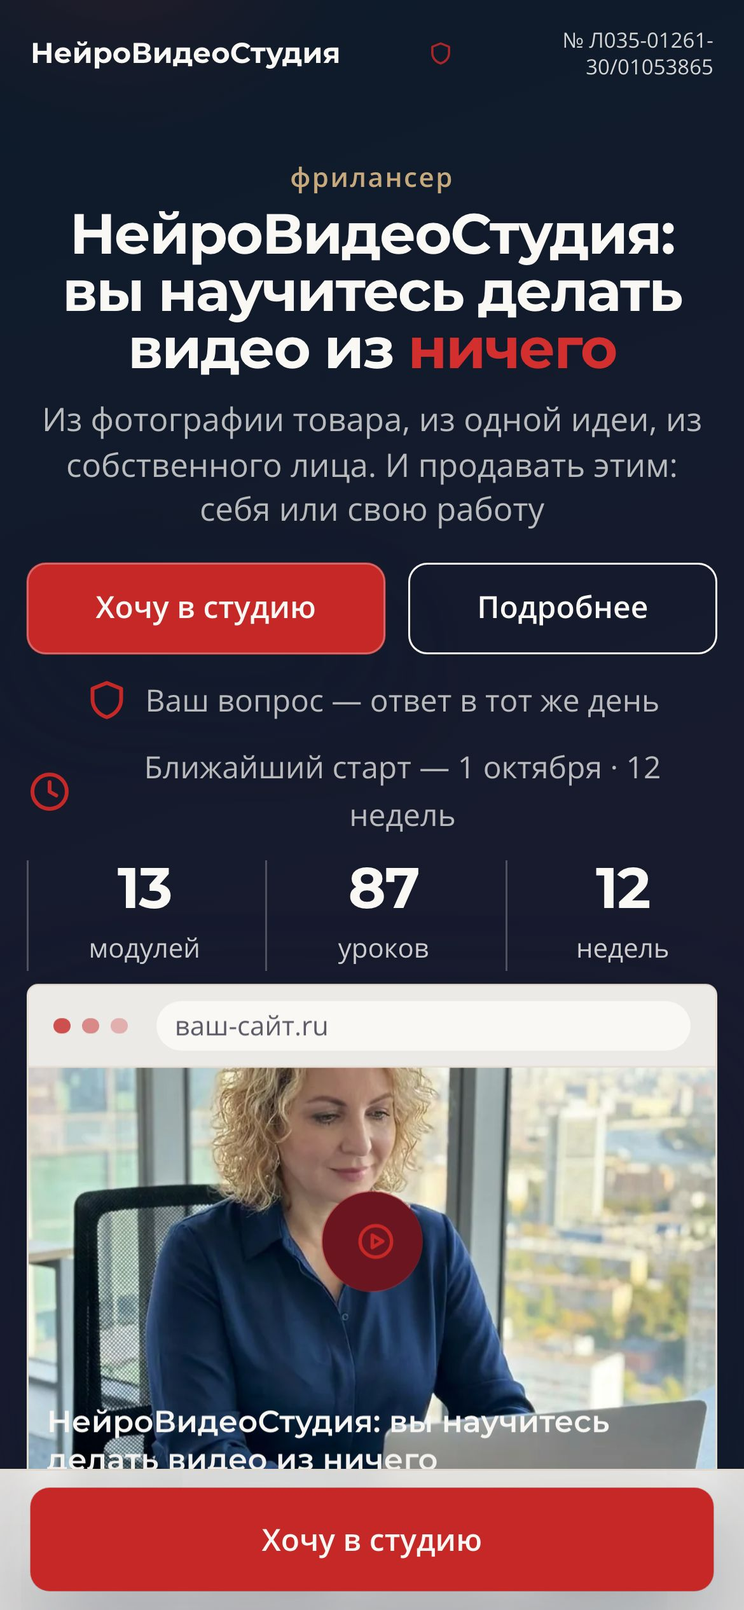
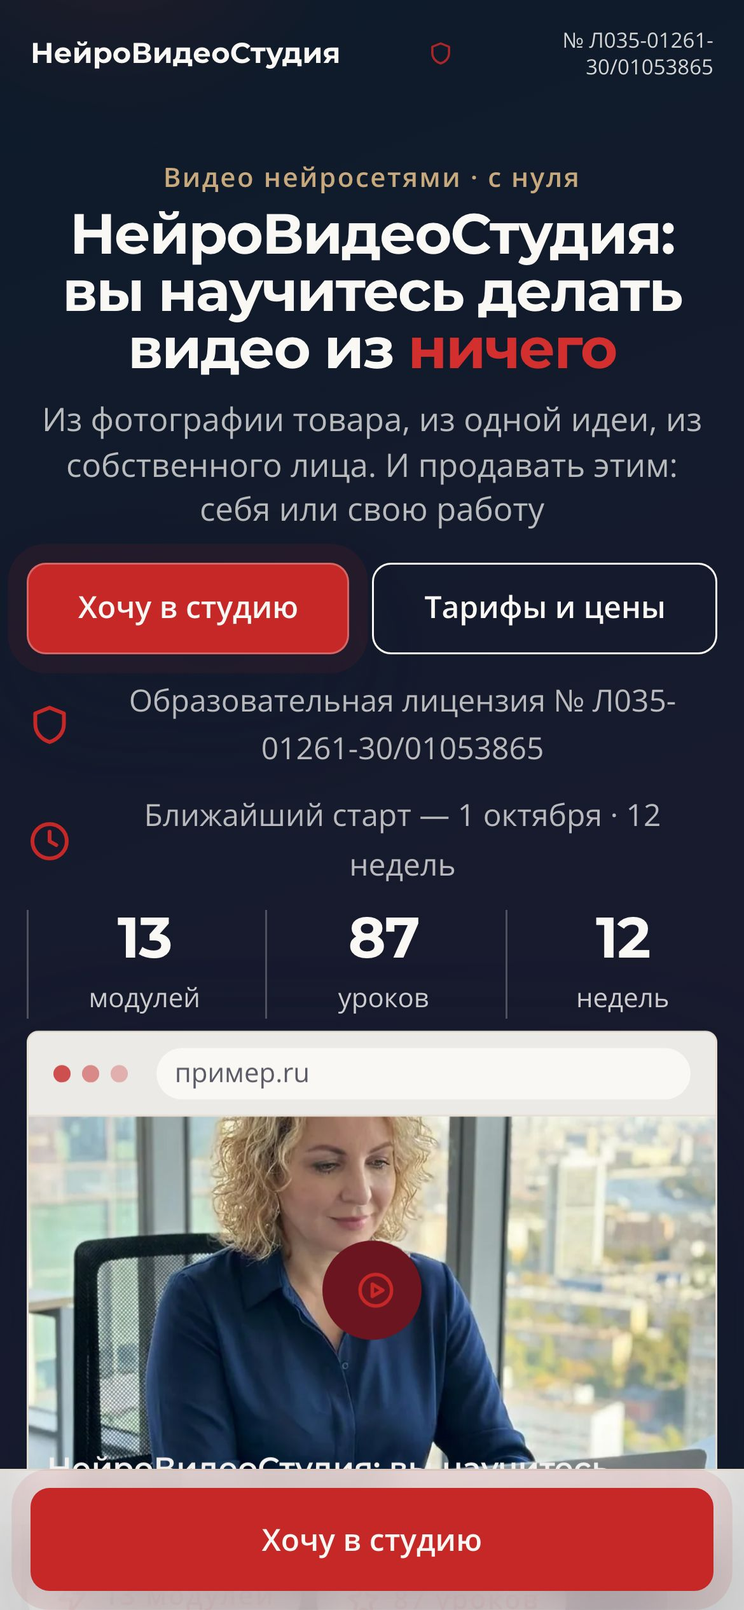
Переделка дизайна · задача 10: витрина и каталог больше не сочиняют за человека
Витрина местами подставляла своё там, где поля не было. Кикер брался из
раздела «Для кого», строка доверия — из зашитой фразы, вторая кнопка
подменялась на «Подробнее» вместо той, что человек написал в прототипе,
адрес в мокапе телефона был «ваш-сайт.ru». Теперь источник один — прототип;
поля нет — честная пометка, а не выдумка.

Товар крупно собирался тёмным, хотя в макете он светлый: схема падала на
тёмную доминанту. Каталог показывает схемы в их родных палитрах.

Заглушка-силуэт для тех, у кого своей картинки ещё нет, переделана под новую
отделку — без текста поверх и без непрозрачной подложки.

При смене схемы картинка для мессенджера оставалась от прошлой — теперь
проверка напоминает пересобрать её.

336 тестов зелёные.

diff --git a/ядро/обложки/каталог/обложки.html b/ядро/обложки/каталог/обложки.html
@@ -1,1 +1,1 @@
-<!DOCTYPE html><html lang="ru"><head><meta charset="utf-8"><meta name="viewport" content="width=device-width, initial-scale=1"><title>Каталог схем первого экрана</title><style>body{font:16px/1.5 system-ui,sans-serif;margin:0;padding:24px;background:rgb(245,245,242);color:rgb(30,30,30)}h1{font-size:28px;margin:0 0 4px}h2{font-size:22px;margin:0 0 4px}.когда{margin:0 0 8px;color:rgb(90,90,90)}.схема{background:white;border:1px solid rgb(220,220,215);border-radius:12px;padding:20px;margin:0 0 20px}.снимки{display:grid;grid-template-columns:minmax(0,1fr) 220px;gap:16px;align-items:start;margin:12px 0}figure{margin:0}figcaption{font-size:13px;color:rgb(90,90,90);margin-bottom:6px}img{width:100%;height:auto;border:1px solid rgb(200,200,200);border-radius:6px}.телефон img{border-radius:22px;border:6px solid rgb(30,30,30)}.реком{display:inline-block;padding:4px 12px;border-radius:99px;background:rgb(255,240,200);margin:0 0 8px}.заметка{padding:12px 16px;background:rgb(255,240,200);border-radius:8px}code{font-size:14px}.ответ{position:sticky;bottom:0;background:white;border-top:2px solid rgb(30,30,30);padding:12px 0}@media (max-width:700px){.снимки{grid-template-columns:1fr}.телефон{max-width:220px}}</style></head><body><h1>Каталог схем первого экрана</h1><p class="когда">12.09.2026, 09:13 МСК · показана сторона: справа · взгляд влево → картинка справа; вправо → слева; в камеру → любая сторона</p><p>Смотрите оба вида. На телефоне картинка должна быть в первом окне и лицо — целиком; текст на лицо не ложится.</p><p class="заметка">Это пример на материалах автора системы (папка <code>ядро/обложки/пример-студия/</code>): так схемы выглядят с настоящими текстами, фото и роликом. Своя примерка на ваших текстах и картинке — <code>.venv/bin/python ядро/скрипты/обложки.py сайты/&lt;имя&gt;</code>.</p><section class="схема" id="схема-1"><h2>1 · разворот</h2><p class="когда"><b>Когда берём:</b> услуга от человека: текст слева, фото справа — самая спокойная и самая надёжная схема</p><p class="реком">рекомендую — фото есть, текст короткий — разворот читается за пять секунд и не ломается ни на одном экране</p><div class="снимки"><figure><figcaption>компьютер</figcaption><img src="обложка-разворот/компьютер.jpg" alt="разворот: компьютер"></figure><figure class="телефон"><figcaption>телефон</figcaption><img src="обложка-разворот/телефон.jpg" alt="разворот: телефон"></figure></div><p><b>Что нужно от вас:</b> фото по грудь 3:4 (имя с -3x4), лицо в верхней трети; кроп для телефона делает обложка.py</p><p><b>Движение:</b> фото стоит и тает в сторону текста</p><p><a href="обложка-разворот/index.html">открыть живьём</a></p></section><section class="схема" id="схема-2"><h2>2 · разворот-слева</h2><p class="когда"><b>Когда берём:</b> лицо на фото смотрит к тексту · человек известнее оффера · портрет работает печатью доверия — тогда оффер можно сказать коротко, одной строкой</p><div class="снимки"><figure><figcaption>компьютер</figcaption><img src="обложка-разворот-слева/компьютер.jpg" alt="разворот-слева: компьютер"></figure><figure class="телефон"><figcaption>телефон</figcaption><img src="обложка-разворот-слева/телефон.jpg" alt="разворот-слева: телефон"></figure></div><p><b>Что нужно от вас:</b> фото по грудь 3:4 (имя с -3x4), лицо смотрит вправо — в сторону текста</p><p><b>Движение:</b> фото стоит и тает в сторону текста; на телефоне разницы с обычным разворотом нет</p><p><a href="обложка-разворот-слева/index.html">открыть живьём</a></p></section><section class="схема" id="схема-3"><h2>3 · орбита</h2><p class="когда"><b>Когда берём:</b> вокруг человека четыре доказательства: цифры, документ, срок, награда</p><div class="снимки"><figure><figcaption>компьютер</figcaption><img src="обложка-орбита/компьютер.jpg" alt="орбита: компьютер"></figure><figure class="телефон"><figcaption>телефон</figcaption><img src="обложка-орбита/телефон.jpg" alt="орбита: телефон"></figure></div><p><b>Что нужно от вас:</b> вырез без фона — PNG с прозрачностью (имя с -vyrez), взгляд в камеру или чуть в сторону</p><p><b>Движение:</b> спутники парят, кольца медленно крутятся</p><p><a href="обложка-орбита/index.html">открыть живьём</a></p></section><section class="схема" id="схема-4"><h2>4 · сцена</h2><p class="когда"><b>Когда берём:</b> атмосфера важнее лица: помещение, процесс, город — кадр во весь экран</p><div class="снимки"><figure><figcaption>компьютер</figcaption><img src="обложка-сцена/компьютер.jpg" alt="сцена: компьютер"></figure><figure class="телефон"><figcaption>телефон</figcaption><img src="обложка-сцена/телефон.jpg" alt="сцена: телефон"></figure></div><p><b>Что нужно от вас:</b> горизонтальное фото 16:9 (имя с -16x9) и кроп 9:16 для телефона от обложка.py</p><p><b>Движение:</b> на компьютере кадр медленно наезжает, на телефоне стоит</p><p><a href="обложка-сцена/index.html">открыть живьём</a></p></section><section class="схема" id="схема-5"><h2>5 · живая-сцена</h2><p class="когда"><b>Когда берём:</b> то же, но кадр живой и говорит: 15–20 секунд речи, без субтитров, звук — по кнопке</p><p class="реком">рекомендую — ролик с речью уже есть — живая сцена говорит за вас, а звук человек включит сам, когда решит</p><div class="снимки"><figure><figcaption>компьютер</figcaption><img src="обложка-живая-сцена/компьютер.jpg" alt="живая-сцена: компьютер"></figure><figure class="телефон"><figcaption>телефон</figcaption><img src="обложка-живая-сцена/телефон.jpg" alt="живая-сцена: телефон"></figure></div><p><b>Что нужно от вас:</b> ролик 16:9 с речью 15–20 с (имя golos.mp4) и постер golos-poster.jpg; без субтитров</p><p><b>Движение:</b> видео петлёй без звука; красная кнопка «Включить звук» — голос один раз, потом снова тихая петля</p><p><a href="обложка-живая-сцена/index.html">открыть живьём</a></p></section><section class="схема" id="схема-6"><h2>6 · афиша-с-экраном</h2><p class="когда"><b>Когда берём:</b> продукт — это экран: сервис, курс, бот; есть вторая ссылка «Подробнее»</p><div class="снимки"><figure><figcaption>компьютер</figcaption><img src="обложка-афиша-с-экраном/компьютер.jpg" alt="афиша-с-экраном: компьютер"></figure><figure class="телефон"><figcaption>телефон</figcaption><img src="обложка-афиша-с-экраном/телефон.jpg" alt="афиша-с-экраном: телефон"></figure></div><p><b>Что нужно от вас:</b> скриншот продукта 16:10 без личных данных (имя с ekran)</p><p><b>Движение:</b> окно дышит, бегущая строка из трёх пунктов</p><p><a href="обложка-афиша-с-экраном/index.html">открыть живьём</a></p></section><section class="схема" id="схема-7"><h2>7 · товар-крупно</h2><p class="когда"><b>Когда берём:</b> товар или приложение крупно, три преимущества бейджами</p><div class="снимки"><figure><figcaption>компьютер</figcaption><img src="обложка-товар-крупно/компьютер.jpg" alt="товар-крупно: компьютер"></figure><figure class="телефон"><figcaption>телефон</figcaption><img src="обложка-товар-крупно/телефон.jpg" alt="товар-крупно: телефон"></figure></div><p><b>Что нужно от вас:</b> вертикальный кадр 9:16 (имя с -9x16)</p><p><b>Движение:</b> бейджи парят</p><p><a href="обложка-товар-крупно/index.html">открыть живьём</a></p></section><section class="схема" id="схема-8"><h2>8 · бенто</h2><p class="когда"><b>Когда берём:</b> много разного сразу: текст, фото, три цифры, три пункта — плиткой</p><div class="снимки"><figure><figcaption>компьютер</figcaption><img src="обложка-бенто/компьютер.jpg" alt="бенто: компьютер"></figure><figure class="телефон"><figcaption>телефон</figcaption><img src="обложка-бенто/телефон.jpg" alt="бенто: телефон"></figure></div><p><b>Что нужно от вас:</b> фото 4:3 или 16:9, любой сюжет</p><p><b>Движение:</b> ячейки приподнимаются под курсором</p><p><a href="обложка-бенто/index.html">открыть живьём</a></p></section><section class="схема" id="схема-9"><h2>9 · центр</h2><p class="когда"><b>Когда берём:</b> человек в центре буквально: фигура посередине, карточки по бокам</p><div class="снимки"><figure><figcaption>компьютер</figcaption><img src="обложка-центр/компьютер.jpg" alt="центр: компьютер"></figure><figure class="телефон"><figcaption>телефон</figcaption><img src="обложка-центр/телефон.jpg" alt="центр: телефон"></figure></div><p><b>Что нужно от вас:</b> вырез по пояс или в рост (имя с -vyrez); фигура не касается левого, верхнего и правого краёв (обложка.py --проверить-вырез)</p><p><b>Движение:</b> карточки парят, кольца крутятся</p><p><a href="обложка-центр/index.html">открыть живьём</a></p></section><section class="схема" id="схема-10"><h2>10 · живая-обложка</h2><p class="когда"><b>Когда берём:</b> событие, студия, мастерская — 6–10 секунд живого кадра во весь экран</p><div class="снимки"><figure><figcaption>компьютер</figcaption><img src="обложка-живая-обложка/компьютер.jpg" alt="живая-обложка: компьютер"></figure><figure class="телефон"><figcaption>телефон</figcaption><img src="обложка-живая-обложка/телефон.jpg" alt="живая-обложка: телефон"></figure></div><p><b>Что нужно от вас:</b> ролик без звука 6–10 с (zhivaya.mp4 + .webm), вертикальный zhivaya-telefon.mp4 и постеры — всё делает обложка.py --петля</p><p><b>Движение:</b> видео петлёй; телефон и reduced-motion — постер</p><p><a href="обложка-живая-обложка/index.html">открыть живьём</a></p></section><section class="схема" id="схема-11"><h2>11 · живой-портрет</h2><p class="когда"><b>Когда берём:</b> человек «оживает» в кадре: дышит, поворачивается — 8 секунд</p><div class="снимки"><figure><figcaption>компьютер</figcaption><img src="обложка-живой-портрет/компьютер.jpg" alt="живой-портрет: компьютер"></figure><figure class="телефон"><figcaption>телефон</figcaption><img src="обложка-живой-портрет/телефон.jpg" alt="живой-портрет: телефон"></figure></div><p><b>Что нужно от вас:</b> ролик с прозрачным фоном или на зелёном → portret-vyrez.webm (обложка.py --альфа); подключён MCP HeyGen — генерация в нём; нет — человек делает в HeyGen сам и приносит файл; ключом API система не пользуется</p><p><b>Движение:</b> альфа-видео петлёй в кольцах; Safari и телефон — постер PNG</p><p><a href="обложка-живой-портрет/index.html">открыть живьём</a></p></section><section class="схема" id="схема-12"><h2>12 · мозаика-роликов</h2><p class="когда"><b>Когда берём:</b> продукт — это ролики: рилсы, уроки, кейсы — пять кадров лентой</p><div class="снимки"><figure><figcaption>компьютер</figcaption><img src="обложка-мозаика-роликов/компьютер.jpg" alt="мозаика-роликов: компьютер"></figure><figure class="телефон"><figcaption>телефон</figcaption><img src="обложка-мозаика-роликов/телефон.jpg" alt="мозаика-роликов: телефон"></figure></div><p><b>Что нужно от вас:</b> пять вертикальных роликов до 4 с и 500 КБ (rolik-1…5.mp4) с постерами — обложка.py --петля --вертикально --секунд 4</p><p><b>Движение:</b> лента плывёт влево, под курсором пауза; на телефоне сетка 2×2</p><p><a href="обложка-мозаика-роликов/index.html">открыть живьём</a></p></section><p class="ответ"><b>Что ответить:</b> номер · сторона (справа или слева) — например «3 · слева». Сейчас показана сторона «справа»; другую сторону покажет сборка с --сторона.</p></body></html>
+<!DOCTYPE html><html lang="ru"><head><meta charset="utf-8"><meta name="viewport" content="width=device-width, initial-scale=1"><title>Каталог схем первого экрана</title><style>body{font:16px/1.5 system-ui,sans-serif;margin:0;padding:24px;background:rgb(245,245,242);color:rgb(30,30,30)}h1{font-size:28px;margin:0 0 4px}h2{font-size:22px;margin:0 0 4px}.когда{margin:0 0 8px;color:rgb(90,90,90)}.схема{background:white;border:1px solid rgb(220,220,215);border-radius:12px;padding:20px;margin:0 0 20px}.снимки{display:grid;grid-template-columns:minmax(0,1fr) 220px;gap:16px;align-items:start;margin:12px 0}figure{margin:0}figcaption{font-size:13px;color:rgb(90,90,90);margin-bottom:6px}img{width:100%;height:auto;border:1px solid rgb(200,200,200);border-radius:6px}.телефон img{border-radius:22px;border:6px solid rgb(30,30,30)}.реком{display:inline-block;padding:4px 12px;border-radius:99px;background:rgb(255,240,200);margin:0 0 8px}.заметка{padding:12px 16px;background:rgb(255,240,200);border-radius:8px}code{font-size:14px}.ответ{position:sticky;bottom:0;background:white;border-top:2px solid rgb(30,30,30);padding:12px 0}@media (max-width:700px){.снимки{grid-template-columns:1fr}.телефон{max-width:220px}}</style></head><body><h1>Каталог схем первого экрана</h1><p class="когда">12.09.2026, 10:03 МСК · показана сторона: справа · взгляд влево → картинка справа; вправо → слева; в камеру → любая сторона</p><p>Смотрите оба вида. На телефоне картинка должна быть в первом окне и лицо — целиком; текст на лицо не ложится.</p><p class="заметка">Это пример на материалах автора системы (папка <code>ядро/обложки/пример-студия/</code>): так схемы выглядят с настоящими текстами, фото и роликом. Своя примерка на ваших текстах и картинке — <code>.venv/bin/python ядро/скрипты/обложки.py сайты/&lt;имя&gt;</code>.</p><section class="схема" id="схема-1"><h2>1 · разворот</h2><p class="когда"><b>Когда берём:</b> услуга от человека: текст слева, фото справа — самая спокойная и самая надёжная схема</p><p class="реком">рекомендую — фото есть, текст короткий — разворот читается за пять секунд и не ломается ни на одном экране</p><div class="снимки"><figure><figcaption>компьютер</figcaption><img src="обложка-разворот/компьютер.jpg" alt="разворот: компьютер"></figure><figure class="телефон"><figcaption>телефон</figcaption><img src="обложка-разворот/телефон.jpg" alt="разворот: телефон"></figure></div><p><b>Что нужно от вас:</b> фото по грудь 3:4 (имя с -3x4), лицо в верхней трети; кроп для телефона делает обложка.py</p><p><b>Движение:</b> фото стоит и тает в сторону текста</p><p><a href="обложка-разворот/index.html">открыть живьём</a></p></section><section class="схема" id="схема-2"><h2>2 · разворот-слева</h2><p class="когда"><b>Когда берём:</b> лицо на фото смотрит к тексту · человек известнее оффера · портрет работает печатью доверия — тогда оффер можно сказать коротко, одной строкой</p><div class="снимки"><figure><figcaption>компьютер</figcaption><img src="обложка-разворот-слева/компьютер.jpg" alt="разворот-слева: компьютер"></figure><figure class="телефон"><figcaption>телефон</figcaption><img src="обложка-разворот-слева/телефон.jpg" alt="разворот-слева: телефон"></figure></div><p><b>Что нужно от вас:</b> фото по грудь 3:4 (имя с -3x4), лицо смотрит вправо — в сторону текста</p><p><b>Движение:</b> фото стоит и тает в сторону текста; на телефоне разницы с обычным разворотом нет</p><p><a href="обложка-разворот-слева/index.html">открыть живьём</a></p></section><section class="схема" id="схема-3"><h2>3 · орбита</h2><p class="когда"><b>Когда берём:</b> вокруг человека четыре доказательства: цифры, документ, срок, награда</p><div class="снимки"><figure><figcaption>компьютер</figcaption><img src="обложка-орбита/компьютер.jpg" alt="орбита: компьютер"></figure><figure class="телефон"><figcaption>телефон</figcaption><img src="обложка-орбита/телефон.jpg" alt="орбита: телефон"></figure></div><p><b>Что нужно от вас:</b> вырез без фона — PNG с прозрачностью (имя с -vyrez), взгляд в камеру или чуть в сторону</p><p><b>Движение:</b> спутники парят, кольца медленно крутятся</p><p><a href="обложка-орбита/index.html">открыть живьём</a></p></section><section class="схема" id="схема-4"><h2>4 · сцена</h2><p class="когда"><b>Когда берём:</b> атмосфера важнее лица: помещение, процесс, город — кадр во весь экран</p><div class="снимки"><figure><figcaption>компьютер</figcaption><img src="обложка-сцена/компьютер.jpg" alt="сцена: компьютер"></figure><figure class="телефон"><figcaption>телефон</figcaption><img src="обложка-сцена/телефон.jpg" alt="сцена: телефон"></figure></div><p><b>Что нужно от вас:</b> горизонтальное фото 16:9 (имя с -16x9) и кроп 9:16 для телефона от обложка.py</p><p><b>Движение:</b> на компьютере кадр медленно наезжает, на телефоне стоит</p><p><a href="обложка-сцена/index.html">открыть живьём</a></p></section><section class="схема" id="схема-5"><h2>5 · живая-сцена</h2><p class="когда"><b>Когда берём:</b> то же, но кадр живой и говорит: 15–20 секунд речи, без субтитров, звук — по кнопке</p><p class="реком">рекомендую — ролик с речью уже есть — живая сцена говорит за вас, а звук человек включит сам, когда решит</p><div class="снимки"><figure><figcaption>компьютер</figcaption><img src="обложка-живая-сцена/компьютер.jpg" alt="живая-сцена: компьютер"></figure><figure class="телефон"><figcaption>телефон</figcaption><img src="обложка-живая-сцена/телефон.jpg" alt="живая-сцена: телефон"></figure></div><p><b>Что нужно от вас:</b> ролик 16:9 с речью 15–20 с (имя golos.mp4) и постер golos-poster.jpg; без субтитров</p><p><b>Движение:</b> видео петлёй без звука; красная кнопка «Включить звук» — голос один раз, потом снова тихая петля</p><p><a href="обложка-живая-сцена/index.html">открыть живьём</a></p></section><section class="схема" id="схема-6"><h2>6 · афиша-с-экраном</h2><p class="когда"><b>Когда берём:</b> продукт — это экран: сервис, курс, бот; есть вторая ссылка «Подробнее»</p><div class="снимки"><figure><figcaption>компьютер</figcaption><img src="обложка-афиша-с-экраном/компьютер.jpg" alt="афиша-с-экраном: компьютер"></figure><figure class="телефон"><figcaption>телефон</figcaption><img src="обложка-афиша-с-экраном/телефон.jpg" alt="афиша-с-экраном: телефон"></figure></div><p><b>Что нужно от вас:</b> скриншот продукта 16:10 без личных данных (имя с ekran)</p><p><b>Движение:</b> окно дышит, бегущая строка из трёх пунктов</p><p><a href="обложка-афиша-с-экраном/index.html">открыть живьём</a></p></section><section class="схема" id="схема-7"><h2>7 · товар-крупно</h2><p class="когда"><b>Когда берём:</b> товар или приложение крупно, три преимущества бейджами</p><div class="снимки"><figure><figcaption>компьютер</figcaption><img src="обложка-товар-крупно/компьютер.jpg" alt="товар-крупно: компьютер"></figure><figure class="телефон"><figcaption>телефон</figcaption><img src="обложка-товар-крупно/телефон.jpg" alt="товар-крупно: телефон"></figure></div><p><b>Что нужно от вас:</b> вертикальный кадр 9:16 (имя с -9x16)</p><p><b>Движение:</b> бейджи парят</p><p><a href="обложка-товар-крупно/index.html">открыть живьём</a></p></section><section class="схема" id="схема-8"><h2>8 · бенто</h2><p class="когда"><b>Когда берём:</b> много разного сразу: текст, фото, три цифры, три пункта — плиткой</p><div class="снимки"><figure><figcaption>компьютер</figcaption><img src="обложка-бенто/компьютер.jpg" alt="бенто: компьютер"></figure><figure class="телефон"><figcaption>телефон</figcaption><img src="обложка-бенто/телефон.jpg" alt="бенто: телефон"></figure></div><p><b>Что нужно от вас:</b> фото 4:3 или 16:9, любой сюжет</p><p><b>Движение:</b> ячейки приподнимаются под курсором</p><p><a href="обложка-бенто/index.html">открыть живьём</a></p></section><section class="схема" id="схема-9"><h2>9 · центр</h2><p class="когда"><b>Когда берём:</b> человек в центре буквально: фигура посередине, карточки по бокам</p><div class="снимки"><figure><figcaption>компьютер</figcaption><img src="обложка-центр/компьютер.jpg" alt="центр: компьютер"></figure><figure class="телефон"><figcaption>телефон</figcaption><img src="обложка-центр/телефон.jpg" alt="центр: телефон"></figure></div><p><b>Что нужно от вас:</b> вырез по пояс или в рост (имя с -vyrez); фигура не касается левого, верхнего и правого краёв (обложка.py --проверить-вырез)</p><p><b>Движение:</b> карточки парят, кольца крутятся</p><p><a href="обложка-центр/index.html">открыть живьём</a></p></section><section class="схема" id="схема-10"><h2>10 · живая-обложка</h2><p class="когда"><b>Когда берём:</b> событие, студия, мастерская — 6–10 секунд живого кадра во весь экран</p><div class="снимки"><figure><figcaption>компьютер</figcaption><img src="обложка-живая-обложка/компьютер.jpg" alt="живая-обложка: компьютер"></figure><figure class="телефон"><figcaption>телефон</figcaption><img src="обложка-живая-обложка/телефон.jpg" alt="живая-обложка: телефон"></figure></div><p><b>Что нужно от вас:</b> ролик без звука 6–10 с (zhivaya.mp4 + .webm), вертикальный zhivaya-telefon.mp4 и постеры — всё делает обложка.py --петля</p><p><b>Движение:</b> видео петлёй; телефон и reduced-motion — постер</p><p><a href="обложка-живая-обложка/index.html">открыть живьём</a></p></section><section class="схема" id="схема-11"><h2>11 · живой-портрет</h2><p class="когда"><b>Когда берём:</b> человек «оживает» в кадре: дышит, поворачивается — 8 секунд</p><div class="снимки"><figure><figcaption>компьютер</figcaption><img src="обложка-живой-портрет/компьютер.jpg" alt="живой-портрет: компьютер"></figure><figure class="телефон"><figcaption>телефон</figcaption><img src="обложка-живой-портрет/телефон.jpg" alt="живой-портрет: телефон"></figure></div><p><b>Что нужно от вас:</b> ролик с прозрачным фоном или на зелёном → portret-vyrez.webm (обложка.py --альфа); подключён MCP HeyGen — генерация в нём; нет — человек делает в HeyGen сам и приносит файл; ключом API система не пользуется</p><p><b>Движение:</b> альфа-видео петлёй в кольцах; Safari и телефон — постер PNG</p><p><a href="обложка-живой-портрет/index.html">открыть живьём</a></p></section><section class="схема" id="схема-12"><h2>12 · мозаика-роликов</h2><p class="когда"><b>Когда берём:</b> продукт — это ролики: рилсы, уроки, кейсы — пять кадров лентой</p><div class="снимки"><figure><figcaption>компьютер</figcaption><img src="обложка-мозаика-роликов/компьютер.jpg" alt="мозаика-роликов: компьютер"></figure><figure class="телефон"><figcaption>телефон</figcaption><img src="обложка-мозаика-роликов/телефон.jpg" alt="мозаика-роликов: телефон"></figure></div><p><b>Что нужно от вас:</b> пять вертикальных роликов до 4 с и 500 КБ (rolik-1…5.mp4) с постерами — обложка.py --петля --вертикально --секунд 4</p><p><b>Движение:</b> лента плывёт влево, под курсором пауза; на телефоне сетка 2×2</p><p><a href="обложка-мозаика-роликов/index.html">открыть живьём</a></p></section><p class="ответ"><b>Что ответить:</b> номер · сторона (справа или слева) — например «3 · слева». Сейчас показана сторона «справа»; другую сторону покажет сборка с --сторона.</p></body></html>

diff --git a/ядро/обложки/каталог/обложка-товар-крупно/index.html b/ядро/обложки/каталог/обложка-товар-крупно/index.html
@@ -52,7 +52,7 @@
 </head>
 <body class="с-липкой-кнопкой">
 <a id="экран-контакты" aria-hidden="true"></a>
-<section class="блок блок--первый-экран первый-экран--товар-крупно тёмный фон--пятна" id="экран-1" data-тип="первый-экран" data-схема="товар-крупно" data-картинка="товар">
+<section class="блок блок--первый-экран первый-экран--товар-крупно светлый фон--пятна" id="экран-1" data-тип="первый-экран" data-схема="товар-крупно" data-картинка="товар">
   <header class="шапка">
     <a class="шапка__лого" href="#">НейроВидеоСтудия</a>
     <span class="шапка__лиц"><svg class="иконка" aria-hidden="true" xmlns="http://www.w3.org/2000/svg" viewBox="0 0 24 24" fill="none" stroke="currentColor" stroke-width="2" stroke-linecap="round" stroke-linejoin="round">
@@ -61,13 +61,13 @@
   </header>
   <div class="блок__внутри">
     <div class="первый-экран__текст">
-      <p class="кикер">фрилансер</p>
+      <p class="кикер">Видео нейросетями · с нуля</p>
       <h1>НейроВидеоСтудия: вы научитесь делать видео из <em class="акцент">ничего</em></h1>
       <p class="лид">Из фотографии товара, из одной идеи, из собственного лица. И продавать этим: себя или свою работу</p>
-      <div class="первый-экран__действие"><a class="кнопка кнопка--главная" href="#экран-контакты">Хочу в студию</a> <a class="кнопка кнопка--контур" href="#экран-2">Подробнее</a></div>
+      <div class="первый-экран__действие"><a class="кнопка кнопка--главная" href="#экран-контакты">Хочу в студию</a> <a class="кнопка кнопка--контур" href="#экран-8">Тарифы и цены</a></div>
       <p class="мелкий первый-экран__доверие"><svg class="иконка" aria-hidden="true" xmlns="http://www.w3.org/2000/svg" viewBox="0 0 24 24" fill="none" stroke="currentColor" stroke-width="2" stroke-linecap="round" stroke-linejoin="round">
   <path d="M12 3l7.5 3v5.5c0 4.6-3.2 8.2-7.5 9.5-4.3-1.3-7.5-4.9-7.5-9.5V6L12 3z"/>
-</svg> Ваш вопрос — ответ в тот же день</p>
+</svg> Образовательная лицензия № Л035-01261-30/01053865</p>
       <p class="мелкий первый-экран__когда"><svg class="иконка" aria-hidden="true" xmlns="http://www.w3.org/2000/svg" viewBox="0 0 24 24" fill="none" stroke="currentColor" stroke-width="2" stroke-linecap="round" stroke-linejoin="round">
   <circle cx="12" cy="12" r="9"/>
   <path d="M12 7v5l3.5 2"/>
@@ -95,7 +95,7 @@
       <span class="бейдж картинка__бейдж парит парит--4"><svg class="иконка" aria-hidden="true" xmlns="http://www.w3.org/2000/svg" viewBox="0 0 24 24" fill="none" stroke="currentColor" stroke-width="2" stroke-linecap="round" stroke-linejoin="round">
   <path d="M7 3h7l5 5v13H7z"/>
   <path d="M14 3v5h5M10 13h5M10 17h5"/>
-</svg>Ваш вопрос — ответ в тот же день </span>
+</svg>Образовательная лицензия № Л035-01261-30/01053865 </span>
     </figure>
   </div>
 </section>

diff --git a/ядро/обложки/каталог/обложка-центр/index.html b/ядро/обложки/каталог/обложка-центр/index.html
@@ -61,7 +61,7 @@
   </header>
   <div class="блок__внутри">
     <div class="центр__верх">
-      <p class="кикер">фрилансер</p>
+      <p class="кикер">Видео нейросетями · с нуля</p>
       <h1>НейроВидеоСтудия: вы научитесь делать видео из <em class="акцент">ничего</em></h1>
     </div>
     <figure class="картинка картинка--вырез первый-экран__картинка"><span class="опора"></span><span class="кольцо"></span><span class="кольцо кольцо--2"></span><img src="../../пример-студия/img/portret-vyrez.webp" alt="НейроВидеоСтудия: вы научитесь делать видео из ничего" data-лицо="47,22" fetchpriority="high"></figure>
@@ -76,7 +76,7 @@
   <path d="M10 8.5l6 3.5-6 3.5z"/>
 </svg></div><span><b>Первый ролик — в первый вечер</b><span>до теории и обзоров</span></span></div>
       <p class="лид">Из фотографии товара, из одной идеи, из собственного лица. И продавать этим: себя или свою работу</p>
-      <div class="первый-экран__действие"><a class="кнопка кнопка--главная" href="#экран-контакты">Хочу в студию</a> <a class="кнопка кнопка--контур" href="#экран-2">Подробнее</a></div>
+      <div class="первый-экран__действие"><a class="кнопка кнопка--главная" href="#экран-контакты">Хочу в студию</a> <a class="кнопка кнопка--контур" href="#экран-8">Тарифы и цены</a></div>
     </div>
     <div class="центр__бок центр__бок--право">
       <div class="карточка карточка--стекло спутник с3 парит парит--3"><div class="спутник__икон"><svg class="иконка" aria-hidden="true" xmlns="http://www.w3.org/2000/svg" viewBox="0 0 24 24" fill="none" stroke="currentColor" stroke-width="2" stroke-linecap="round" stroke-linejoin="round">
@@ -92,7 +92,7 @@
       </ul>
       <p class="мелкий первый-экран__доверие"><svg class="иконка" aria-hidden="true" xmlns="http://www.w3.org/2000/svg" viewBox="0 0 24 24" fill="none" stroke="currentColor" stroke-width="2" stroke-linecap="round" stroke-linejoin="round">
   <path d="M12 3l7.5 3v5.5c0 4.6-3.2 8.2-7.5 9.5-4.3-1.3-7.5-4.9-7.5-9.5V6L12 3z"/>
-</svg> Ваш вопрос — ответ в тот же день</p>
+</svg> Образовательная лицензия № Л035-01261-30/01053865</p>
       <p class="мелкий первый-экран__когда"><svg class="иконка" aria-hidden="true" xmlns="http://www.w3.org/2000/svg" viewBox="0 0 24 24" fill="none" stroke="currentColor" stroke-width="2" stroke-linecap="round" stroke-linejoin="round">
   <circle cx="12" cy="12" r="9"/>
   <path d="M12 7v5l3.5 2"/>

diff --git a/ядро/обложки/каталог/обложка-разворот-слева/index.html b/ядро/обложки/каталог/обложка-разворот-слева/index.html
@@ -64,7 +64,7 @@
     <div class="первый-экран__текст">
       <p class="кикер"><svg class="иконка" aria-hidden="true" xmlns="http://www.w3.org/2000/svg" viewBox="0 0 24 24" fill="none" stroke="currentColor" stroke-width="2" stroke-linecap="round" stroke-linejoin="round">
   <path d="M13 2L4 14h7l-1 8 9-12h-7z"/>
-</svg>фрилансер</p>
+</svg>Видео нейросетями · с нуля</p>
       <h1>НейроВидеоСтудия: вы научитесь делать видео из <em class="акцент">ничего</em></h1>
       <p class="лид">Из фотографии товара, из одной идеи, из собственного лица. И продавать этим: себя или свою работу</p>
       <ul class="список-иконок">
@@ -72,7 +72,7 @@
         <li><i class="галка"></i><span>Берём с нуля: первый ролик — в первый вечер, до теории и обзоров</span></li>
         <li><i class="галка"></i><span>Работаем через один агрегатор — SYNTX: одна регистрация, одна оплата рублями, все нейросети в одном окне</span></li>
       </ul>
-      <div class="первый-экран__действие"><a class="кнопка кнопка--главная" href="#экран-контакты">Хочу в студию</a> <a class="кнопка кнопка--контур" href="#экран-2">Подробнее</a></div>
+      <div class="первый-экран__действие"><a class="кнопка кнопка--главная" href="#экран-контакты">Хочу в студию</a> <a class="кнопка кнопка--контур" href="#экран-8">Тарифы и цены</a></div>
       <ul class="цифры">
         <li class="цифра"><b class="цифра__значение">13</b><span class="цифра__подпись">модулей</span></li>
         <li class="цифра"><b class="цифра__значение">87</b><span class="цифра__подпись">уроков</span></li>
@@ -80,7 +80,7 @@
       </ul>
       <p class="мелкий первый-экран__доверие"><svg class="иконка" aria-hidden="true" xmlns="http://www.w3.org/2000/svg" viewBox="0 0 24 24" fill="none" stroke="currentColor" stroke-width="2" stroke-linecap="round" stroke-linejoin="round">
   <path d="M12 3l7.5 3v5.5c0 4.6-3.2 8.2-7.5 9.5-4.3-1.3-7.5-4.9-7.5-9.5V6L12 3z"/>
-</svg> Ваш вопрос — ответ в тот же день</p>
+</svg> Образовательная лицензия № Л035-01261-30/01053865</p>
       <p class="мелкий первый-экран__когда"><svg class="иконка" aria-hidden="true" xmlns="http://www.w3.org/2000/svg" viewBox="0 0 24 24" fill="none" stroke="currentColor" stroke-width="2" stroke-linecap="round" stroke-linejoin="round">
   <circle cx="12" cy="12" r="9"/>
   <path d="M12 7v5l3.5 2"/>

diff --git a/ядро/обложки/каталог/обложка-разворот/index.html b/ядро/обложки/каталог/обложка-разворот/index.html
@@ -64,7 +64,7 @@
     <div class="первый-экран__текст">
       <p class="кикер"><svg class="иконка" aria-hidden="true" xmlns="http://www.w3.org/2000/svg" viewBox="0 0 24 24" fill="none" stroke="currentColor" stroke-width="2" stroke-linecap="round" stroke-linejoin="round">
   <path d="M13 2L4 14h7l-1 8 9-12h-7z"/>
-</svg>фрилансер</p>
+</svg>Видео нейросетями · с нуля</p>
       <h1>НейроВидеоСтудия: вы научитесь делать видео из <em class="акцент">ничего</em></h1>
       <p class="лид">Из фотографии товара, из одной идеи, из собственного лица. И продавать этим: себя или свою работу</p>
       <ul class="список-иконок">
@@ -72,7 +72,7 @@
         <li><i class="галка"></i><span>Берём с нуля: первый ролик — в первый вечер, до теории и обзоров</span></li>
         <li><i class="галка"></i><span>Работаем через один агрегатор — SYNTX: одна регистрация, одна оплата рублями, все нейросети в одном окне</span></li>
       </ul>
-      <div class="первый-экран__действие"><a class="кнопка кнопка--главная" href="#экран-контакты">Хочу в студию</a> <a class="кнопка кнопка--контур" href="#экран-2">Подробнее</a></div>
+      <div class="первый-экран__действие"><a class="кнопка кнопка--главная" href="#экран-контакты">Хочу в студию</a> <a class="кнопка кнопка--контур" href="#экран-8">Тарифы и цены</a></div>
       <ul class="цифры">
         <li class="цифра"><b class="цифра__значение">13</b><span class="цифра__подпись">модулей</span></li>
         <li class="цифра"><b class="цифра__значение">87</b><span class="цифра__подпись">уроков</span></li>
@@ -80,7 +80,7 @@
       </ul>
       <p class="мелкий первый-экран__доверие"><svg class="иконка" aria-hidden="true" xmlns="http://www.w3.org/2000/svg" viewBox="0 0 24 24" fill="none" stroke="currentColor" stroke-width="2" stroke-linecap="round" stroke-linejoin="round">
   <path d="M12 3l7.5 3v5.5c0 4.6-3.2 8.2-7.5 9.5-4.3-1.3-7.5-4.9-7.5-9.5V6L12 3z"/>
-</svg> Ваш вопрос — ответ в тот же день</p>
+</svg> Образовательная лицензия № Л035-01261-30/01053865</p>
       <p class="мелкий первый-экран__когда"><svg class="иконка" aria-hidden="true" xmlns="http://www.w3.org/2000/svg" viewBox="0 0 24 24" fill="none" stroke="currentColor" stroke-width="2" stroke-linecap="round" stroke-linejoin="round">
   <circle cx="12" cy="12" r="9"/>
   <path d="M12 7v5l3.5 2"/>

diff --git a/ядро/обложки/каталог/обложка-афиша-с-экраном/index.html b/ядро/обложки/каталог/обложка-афиша-с-экраном/index.html
@@ -61,13 +61,13 @@
   </header>
   <div class="блок__внутри">
     <div class="первый-экран__текст">
-      <p class="кикер">фрилансер</p>
+      <p class="кикер">Видео нейросетями · с нуля</p>
       <h1>НейроВидеоСтудия: вы научитесь делать видео из <em class="акцент">ничего</em></h1>
       <p class="лид">Из фотографии товара, из одной идеи, из собственного лица. И продавать этим: себя или свою работу</p>
-      <div class="первый-экран__действие"><a class="кнопка кнопка--главная" href="#экран-контакты">Хочу в студию</a> <a class="кнопка кнопка--контур" href="#экран-2">Подробнее</a></div>
+      <div class="первый-экран__действие"><a class="кнопка кнопка--главная" href="#экран-контакты">Хочу в студию</a> <a class="кнопка кнопка--контур" href="#экран-8">Тарифы и цены</a></div>
       <p class="мелкий первый-экран__доверие"><svg class="иконка" aria-hidden="true" xmlns="http://www.w3.org/2000/svg" viewBox="0 0 24 24" fill="none" stroke="currentColor" stroke-width="2" stroke-linecap="round" stroke-linejoin="round">
   <path d="M12 3l7.5 3v5.5c0 4.6-3.2 8.2-7.5 9.5-4.3-1.3-7.5-4.9-7.5-9.5V6L12 3z"/>
-</svg> Ваш вопрос — ответ в тот же день</p>
+</svg> Образовательная лицензия № Л035-01261-30/01053865</p>
       <p class="мелкий первый-экран__когда"><svg class="иконка" aria-hidden="true" xmlns="http://www.w3.org/2000/svg" viewBox="0 0 24 24" fill="none" stroke="currentColor" stroke-width="2" stroke-linecap="round" stroke-linejoin="round">
   <circle cx="12" cy="12" r="9"/>
   <path d="M12 7v5l3.5 2"/>
@@ -80,7 +80,7 @@
     </div>
     <figure class="картинка картинка--мокап первый-экран__картинка">
       <div class="окно">
-        <div class="окно__бар"><i></i><i></i><i></i><span class="окно__адрес">ваш-сайт.ru</span></div>
+        <div class="окно__бар"><i></i><i></i><i></i><span class="окно__адрес">пример.ru</span></div>
         <img src="../../пример-студия/img/ekran.webp" alt="НейроВидеоСтудия: вы научитесь делать видео из ничего" data-лицо="50,22" fetchpriority="high">
         <a class="плей плей--средний" href="#" aria-label="Смотреть"><svg class="иконка" aria-hidden="true" xmlns="http://www.w3.org/2000/svg" viewBox="0 0 24 24" fill="none" stroke="currentColor" stroke-width="2" stroke-linecap="round" stroke-linejoin="round">
   <circle cx="12" cy="12" r="9"/>

diff --git a/ядро/обложки/каталог/обложка-сцена/index.html b/ядро/обложки/каталог/обложка-сцена/index.html
@@ -62,10 +62,10 @@
   <figure class="картинка картинка--сцена первый-экран__картинка"><picture><source media="(max-width: 899px)" srcset="../../пример-студия/img/stsena-16x9-telefon.webp"><img src="../../пример-студия/img/stsena-16x9.webp" alt="НейроВидеоСтудия: вы научитесь делать видео из ничего" data-лицо="50,22" fetchpriority="high"></picture></figure>
   <div class="блок__внутри">
     <div class="первый-экран__текст">
-      <p class="кикер">фрилансер</p>
+      <p class="кикер">Видео нейросетями · с нуля</p>
       <h1>НейроВидеоСтудия: вы научитесь делать видео из <em class="акцент">ничего</em></h1>
       <p class="лид">Из фотографии товара, из одной идеи, из собственного лица. И продавать этим: себя или свою работу</p>
-      <div class="первый-экран__действие"><a class="кнопка кнопка--главная" href="#экран-контакты">Хочу в студию</a> <a class="кнопка кнопка--контур" href="#экран-2">Подробнее</a></div>
+      <div class="первый-экран__действие"><a class="кнопка кнопка--главная" href="#экран-контакты">Хочу в студию</a> <a class="кнопка кнопка--контур" href="#экран-8">Тарифы и цены</a></div>
       <ul class="цифры">
         <li class="цифра"><b class="цифра__значение">13</b><span class="цифра__подпись">модулей</span></li>
         <li class="цифра"><b class="цифра__значение">87</b><span class="цифра__подпись">уроков</span></li>
@@ -73,7 +73,7 @@
       </ul>
       <p class="мелкий первый-экран__доверие"><svg class="иконка" aria-hidden="true" xmlns="http://www.w3.org/2000/svg" viewBox="0 0 24 24" fill="none" stroke="currentColor" stroke-width="2" stroke-linecap="round" stroke-linejoin="round">
   <path d="M12 3l7.5 3v5.5c0 4.6-3.2 8.2-7.5 9.5-4.3-1.3-7.5-4.9-7.5-9.5V6L12 3z"/>
-</svg> Ваш вопрос — ответ в тот же день</p>
+</svg> Образовательная лицензия № Л035-01261-30/01053865</p>
       <p class="мелкий первый-экран__когда"><svg class="иконка" aria-hidden="true" xmlns="http://www.w3.org/2000/svg" viewBox="0 0 24 24" fill="none" stroke="currentColor" stroke-width="2" stroke-linecap="round" stroke-linejoin="round">
   <circle cx="12" cy="12" r="9"/>
   <path d="M12 7v5l3.5 2"/>

diff --git a/ядро/обложки/каталог/обложка-живая-обложка/index.html b/ядро/обложки/каталог/обложка-живая-обложка/index.html
@@ -63,10 +63,10 @@
   <span class="живое">живая обложка · без звука</span>
   <div class="блок__внутри">
     <div class="первый-экран__текст">
-      <p class="кикер">фрилансер</p>
+      <p class="кикер">Видео нейросетями · с нуля</p>
       <h1>НейроВидеоСтудия: вы научитесь делать видео из <em class="акцент">ничего</em></h1>
       <p class="лид">Из фотографии товара, из одной идеи, из собственного лица. И продавать этим: себя или свою работу</p>
-      <div class="первый-экран__действие"><a class="кнопка кнопка--главная" href="#экран-контакты">Хочу в студию</a> <a class="кнопка кнопка--контур" href="#экран-2">Подробнее</a></div>
+      <div class="первый-экран__действие"><a class="кнопка кнопка--главная" href="#экран-контакты">Хочу в студию</a> <a class="кнопка кнопка--контур" href="#экран-8">Тарифы и цены</a></div>
       <ul class="цифры">
         <li class="цифра"><b class="цифра__значение">13</b><span class="цифра__подпись">модулей</span></li>
         <li class="цифра"><b class="цифра__значение">87</b><span class="цифра__подпись">уроков</span></li>
@@ -74,7 +74,7 @@
       </ul>
       <p class="мелкий первый-экран__доверие"><svg class="иконка" aria-hidden="true" xmlns="http://www.w3.org/2000/svg" viewBox="0 0 24 24" fill="none" stroke="currentColor" stroke-width="2" stroke-linecap="round" stroke-linejoin="round">
   <path d="M12 3l7.5 3v5.5c0 4.6-3.2 8.2-7.5 9.5-4.3-1.3-7.5-4.9-7.5-9.5V6L12 3z"/>
-</svg> Ваш вопрос — ответ в тот же день</p>
+</svg> Образовательная лицензия № Л035-01261-30/01053865</p>
       <p class="мелкий первый-экран__когда"><svg class="иконка" aria-hidden="true" xmlns="http://www.w3.org/2000/svg" viewBox="0 0 24 24" fill="none" stroke="currentColor" stroke-width="2" stroke-linecap="round" stroke-linejoin="round">
   <circle cx="12" cy="12" r="9"/>
   <path d="M12 7v5l3.5 2"/>

diff --git a/ядро/обложки/каталог/обложка-живой-портрет/index.html b/ядро/обложки/каталог/обложка-живой-портрет/index.html
@@ -61,7 +61,7 @@
   </header>
   <div class="блок__внутри">
     <div class="первый-экран__текст">
-      <p class="кикер">фрилансер</p>
+      <p class="кикер">Видео нейросетями · с нуля</p>
       <h1>НейроВидеоСтудия: вы научитесь делать видео из <em class="акцент">ничего</em></h1>
       <i class="черта"></i>
       <p class="лид">Из фотографии товара, из одной идеи, из собственного лица. И продавать этим: себя или свою работу</p>
@@ -70,10 +70,10 @@
         <li class="цифра"><b class="цифра__значение">87</b><span class="цифра__подпись">уроков</span></li>
         <li class="цифра"><b class="цифра__значение">12</b><span class="цифра__подпись">недель</span></li>
       </ul>
-      <div class="первый-экран__действие"><a class="кнопка кнопка--главная" href="#экран-контакты">Хочу в студию</a> <a class="кнопка кнопка--контур" href="#экран-2">Подробнее</a></div>
+      <div class="первый-экран__действие"><a class="кнопка кнопка--главная" href="#экран-контакты">Хочу в студию</a> <a class="кнопка кнопка--контур" href="#экран-8">Тарифы и цены</a></div>
       <p class="мелкий первый-экран__доверие"><svg class="иконка" aria-hidden="true" xmlns="http://www.w3.org/2000/svg" viewBox="0 0 24 24" fill="none" stroke="currentColor" stroke-width="2" stroke-linecap="round" stroke-linejoin="round">
   <path d="M12 3l7.5 3v5.5c0 4.6-3.2 8.2-7.5 9.5-4.3-1.3-7.5-4.9-7.5-9.5V6L12 3z"/>
-</svg> Ваш вопрос — ответ в тот же день</p>
+</svg> Образовательная лицензия № Л035-01261-30/01053865</p>
       <p class="мелкий первый-экран__когда"><svg class="иконка" aria-hidden="true" xmlns="http://www.w3.org/2000/svg" viewBox="0 0 24 24" fill="none" stroke="currentColor" stroke-width="2" stroke-linecap="round" stroke-linejoin="round">
   <circle cx="12" cy="12" r="9"/>
   <path d="M12 7v5l3.5 2"/>

diff --git a/ядро/обложки/каталог/обложка-живая-сцена/index.html b/ядро/обложки/каталог/обложка-живая-сцена/index.html
@@ -66,10 +66,10 @@
   </div>
   <div class="блок__внутри">
     <div class="первый-экран__текст">
-      <p class="кикер">фрилансер</p>
+      <p class="кикер">Видео нейросетями · с нуля</p>
       <h1>НейроВидеоСтудия: вы научитесь делать видео из <em class="акцент">ничего</em></h1>
       <p class="лид">Из фотографии товара, из одной идеи, из собственного лица. И продавать этим: себя или свою работу</p>
-      <div class="первый-экран__действие"><a class="кнопка кнопка--главная" href="#экран-контакты">Хочу в студию</a> <a class="кнопка кнопка--контур" href="#экран-2">Подробнее</a></div>
+      <div class="первый-экран__действие"><a class="кнопка кнопка--главная" href="#экран-контакты">Хочу в студию</a> <a class="кнопка кнопка--контур" href="#экран-8">Тарифы и цены</a></div>
       <ul class="цифры">
         <li class="цифра"><b class="цифра__значение">13</b><span class="цифра__подпись">модулей</span></li>
         <li class="цифра"><b class="цифра__значение">87</b><span class="цифра__подпись">уроков</span></li>
@@ -77,7 +77,7 @@
       </ul>
       <p class="мелкий первый-экран__доверие"><svg class="иконка" aria-hidden="true" xmlns="http://www.w3.org/2000/svg" viewBox="0 0 24 24" fill="none" stroke="currentColor" stroke-width="2" stroke-linecap="round" stroke-linejoin="round">
   <path d="M12 3l7.5 3v5.5c0 4.6-3.2 8.2-7.5 9.5-4.3-1.3-7.5-4.9-7.5-9.5V6L12 3z"/>
-</svg> Ваш вопрос — ответ в тот же день</p>
+</svg> Образовательная лицензия № Л035-01261-30/01053865</p>
       <p class="мелкий первый-экран__когда"><svg class="иконка" aria-hidden="true" xmlns="http://www.w3.org/2000/svg" viewBox="0 0 24 24" fill="none" stroke="currentColor" stroke-width="2" stroke-linecap="round" stroke-linejoin="round">
   <circle cx="12" cy="12" r="9"/>
   <path d="M12 7v5l3.5 2"/>

diff --git a/ядро/обложки/каталог/обложка-бенто/index.html b/ядро/обложки/каталог/обложка-бенто/index.html
@@ -63,13 +63,13 @@
     <div class="бенто">
       <div class="бенто__ячейка бенто__ячейка--главная тёмный">
         <div class="первый-экран__текст">
-          <p class="кикер">фрилансер</p>
+          <p class="кикер">Видео нейросетями · с нуля</p>
           <h1>НейроВидеоСтудия: вы научитесь делать видео из <em class="акцент">ничего</em></h1>
           <p class="лид">Из фотографии товара, из одной идеи, из собственного лица. И продавать этим: себя или свою работу</p>
-          <div class="первый-экран__действие"><a class="кнопка кнопка--главная" href="#экран-контакты">Хочу в студию</a> <a class="кнопка кнопка--контур" href="#экран-2">Подробнее</a></div>
+          <div class="первый-экран__действие"><a class="кнопка кнопка--главная" href="#экран-контакты">Хочу в студию</a> <a class="кнопка кнопка--контур" href="#экран-8">Тарифы и цены</a></div>
           <p class="мелкий первый-экран__доверие"><svg class="иконка" aria-hidden="true" xmlns="http://www.w3.org/2000/svg" viewBox="0 0 24 24" fill="none" stroke="currentColor" stroke-width="2" stroke-linecap="round" stroke-linejoin="round">
   <path d="M12 3l7.5 3v5.5c0 4.6-3.2 8.2-7.5 9.5-4.3-1.3-7.5-4.9-7.5-9.5V6L12 3z"/>
-</svg> Ваш вопрос — ответ в тот же день</p>
+</svg> Образовательная лицензия № Л035-01261-30/01053865</p>
           <p class="мелкий первый-экран__когда"><svg class="иконка" aria-hidden="true" xmlns="http://www.w3.org/2000/svg" viewBox="0 0 24 24" fill="none" stroke="currentColor" stroke-width="2" stroke-linecap="round" stroke-linejoin="round">
   <circle cx="12" cy="12" r="9"/>
   <path d="M12 7v5l3.5 2"/>

diff --git a/ядро/обложки/каталог/обложка-орбита/index.html b/ядро/обложки/каталог/обложка-орбита/index.html
@@ -61,14 +61,14 @@
   </header>
   <div class="блок__внутри">
     <div class="первый-экран__текст">
-      <p class="кикер">фрилансер</p>
+      <p class="кикер">Видео нейросетями · с нуля</p>
       <h1>НейроВидеоСтудия: вы научитесь делать видео из <em class="акцент">ничего</em></h1>
       <i class="черта"></i>
       <p class="лид">Из фотографии товара, из одной идеи, из собственного лица. И продавать этим: себя или свою работу</p>
-      <div class="первый-экран__действие"><a class="кнопка кнопка--главная" href="#экран-контакты">Хочу в студию</a> <a class="кнопка кнопка--контур" href="#экран-2">Подробнее</a></div>
+      <div class="первый-экран__действие"><a class="кнопка кнопка--главная" href="#экран-контакты">Хочу в студию</a> <a class="кнопка кнопка--контур" href="#экран-8">Тарифы и цены</a></div>
       <p class="мелкий первый-экран__доверие"><svg class="иконка" aria-hidden="true" xmlns="http://www.w3.org/2000/svg" viewBox="0 0 24 24" fill="none" stroke="currentColor" stroke-width="2" stroke-linecap="round" stroke-linejoin="round">
   <path d="M12 3l7.5 3v5.5c0 4.6-3.2 8.2-7.5 9.5-4.3-1.3-7.5-4.9-7.5-9.5V6L12 3z"/>
-</svg> Ваш вопрос — ответ в тот же день</p>
+</svg> Образовательная лицензия № Л035-01261-30/01053865</p>
       <p class="мелкий первый-экран__когда"><svg class="иконка" aria-hidden="true" xmlns="http://www.w3.org/2000/svg" viewBox="0 0 24 24" fill="none" stroke="currentColor" stroke-width="2" stroke-linecap="round" stroke-linejoin="round">
   <circle cx="12" cy="12" r="9"/>
   <path d="M12 7v5l3.5 2"/>
